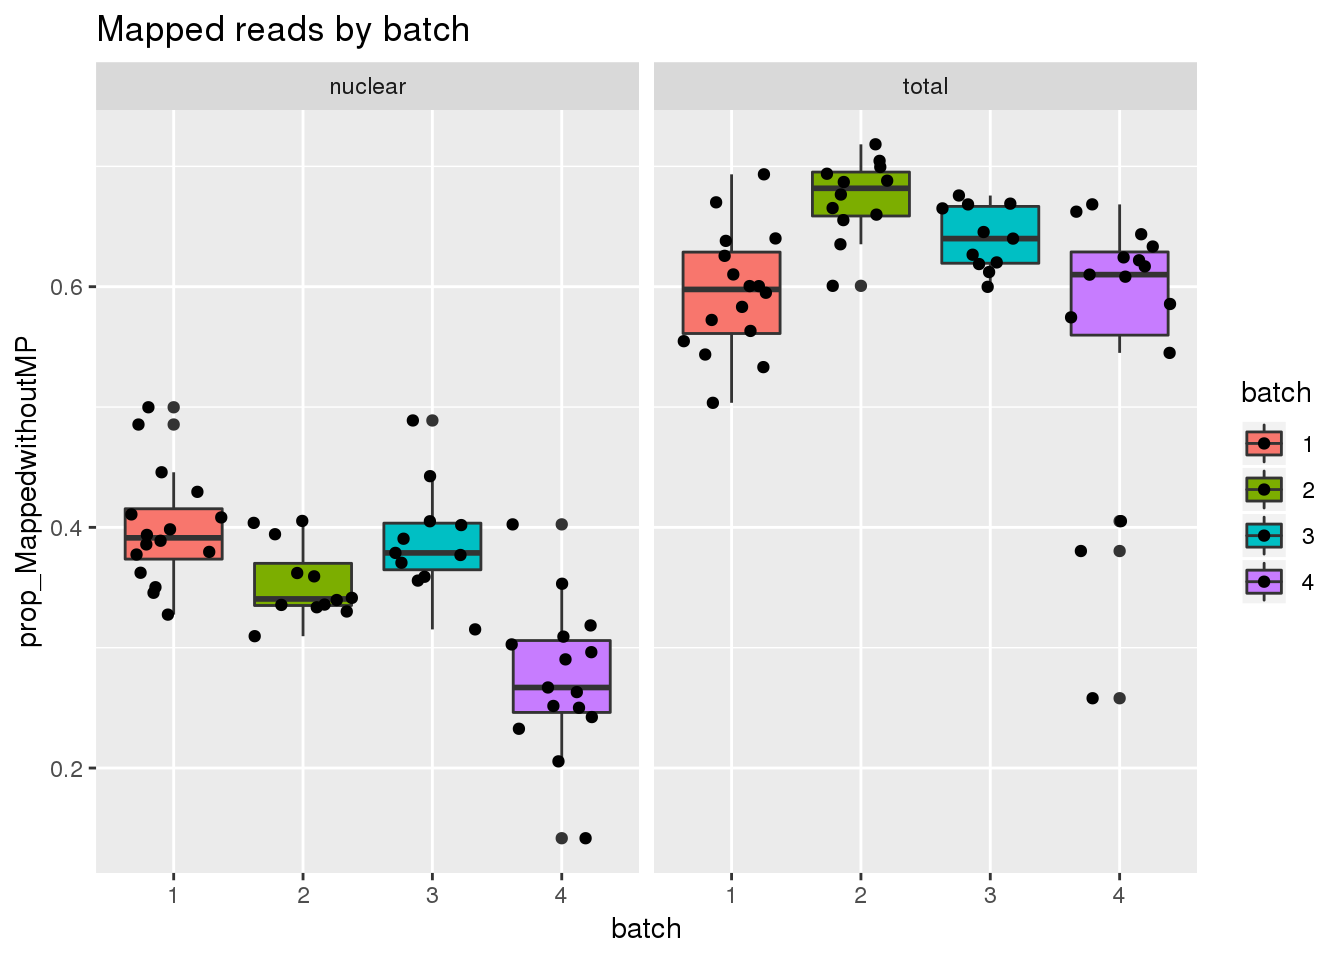
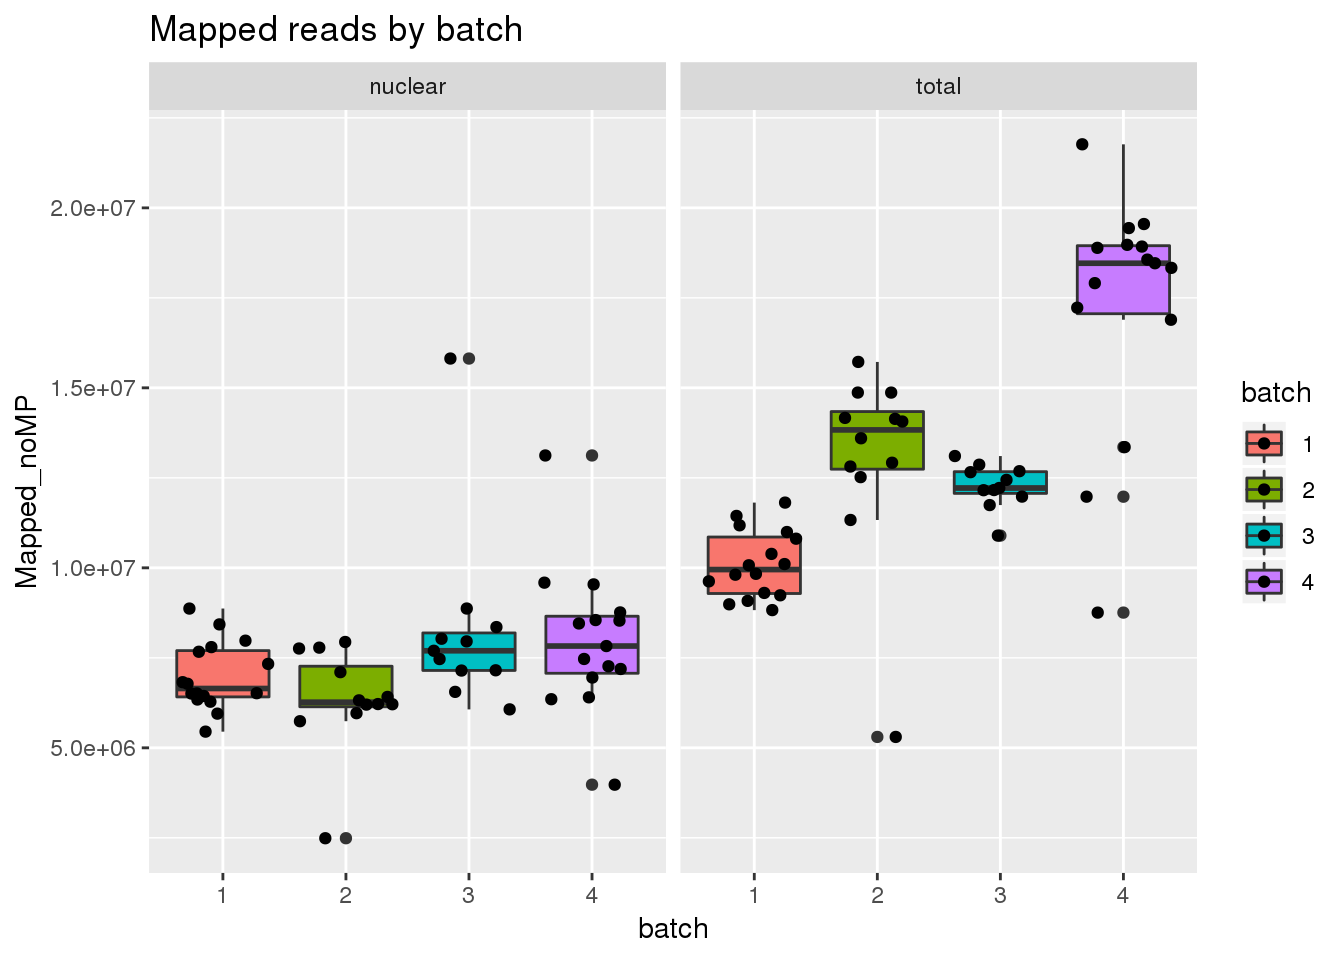
Build site.

diff --git a/docs/seqmetadatanalysis.html b/docs/seqmetadatanalysis.html
@@ -325,7 +325,7 @@ div.section {
 
 <p>
 <button type="button" class="btn btn-default btn-workflowr btn-workflowr-report" data-toggle="collapse" data-target="#workflowr-report">
-<span class="glyphicon glyphicon-list" aria-hidden="true"></span> workflowr <span class="glyphicon glyphicon-ok text-success" aria-hidden="true"></span>
+<span class="glyphicon glyphicon-list" aria-hidden="true"></span> workflowr <span class="glyphicon glyphicon-exclamation-sign text-danger" aria-hidden="true"></span>
 </button>
 </p>
 <div id="workflowr-report" class="collapse">
@@ -334,7 +334,7 @@ div.section {
 <a data-toggle="tab" href="#summary">Summary</a>
 </li>
 <li>
-<a data-toggle="tab" href="#checks"> Checks <span class="glyphicon glyphicon-ok text-success" aria-hidden="true"></span> </a>
+<a data-toggle="tab" href="#checks"> Checks <span class="glyphicon glyphicon-exclamation-sign text-danger" aria-hidden="true"></span> </a>
 </li>
 <li>
 <a data-toggle="tab" href="#versions">Past versions</a>
@@ -346,7 +346,7 @@ div.section {
 <strong>Last updated:</strong> 2019-04-25
 </p>
 <p>
-<strong>Checks:</strong> <span class="glyphicon glyphicon-ok text-success" aria-hidden="true"></span> 6 <span class="glyphicon glyphicon-exclamation-sign text-danger" aria-hidden="true"></span> 0
+<strong>Checks:</strong> <span class="glyphicon glyphicon-ok text-success" aria-hidden="true"></span> 5 <span class="glyphicon glyphicon-exclamation-sign text-danger" aria-hidden="true"></span> 1
 </p>
 <p>
 <strong>Knit directory:</strong> <code>apaQTL/analysis/</code> <span class="glyphicon glyphicon-question-sign" aria-hidden="true" title="This is the local directory in which the code in this file was executed."> </span>
@@ -362,12 +362,12 @@ This reproducible <a href="http://rmarkdown.rstudio.com">R Markdown</a> analysis
 <div class="panel panel-default">
 <div class="panel-heading">
 <p class="panel-title">
-<a data-toggle="collapse" data-parent="#workflowr-checks" href="#strongRMarkdownfilestronguptodate"> <span class="glyphicon glyphicon-ok text-success" aria-hidden="true"></span> <strong>R Markdown file:</strong> up-to-date </a>
+<a data-toggle="collapse" data-parent="#workflowr-checks" href="#strongRMarkdownfilestronguncommittedchanges"> <span class="glyphicon glyphicon-exclamation-sign text-danger" aria-hidden="true"></span> <strong>R Markdown file:</strong> uncommitted changes </a>
 </p>
 </div>
-<div id="strongRMarkdownfilestronguptodate" class="panel-collapse collapse">
+<div id="strongRMarkdownfilestronguncommittedchanges" class="panel-collapse collapse">
 <div class="panel-body">
-<p>Great! Since the R Markdown file has been committed to the Git repository, you know the exact version of the code that produced these results.</p>
+<p>The R Markdown file has unstaged changes. To know which version of the R Markdown file created these results, you’ll want to first commit it to the Git repo. If you’re still working on the analysis, you can ignore this warning. When you’re finished, you can run <code>wflow_publish</code> to commit the R Markdown file and build the HTML.</p>
 </div>
 </div>
 </div>
@@ -422,10 +422,10 @@ This reproducible <a href="http://rmarkdown.rstudio.com">R Markdown</a> analysis
 <div class="panel panel-default">
 <div class="panel-heading">
 <p class="panel-title">
-<a data-toggle="collapse" data-parent="#workflowr-checks" href="#strongRepositoryversionstrongahrefhttpsgithubcombrimittlemanapaQTLtree48b2ec1beba36ac1bfceb53a897d7f0a2ba7c16etargetblank48b2ec1a"> <span class="glyphicon glyphicon-ok text-success" aria-hidden="true"></span> <strong>Repository version:</strong> <a href="https://github.com/brimittleman/apaQTL/tree/48b2ec1beba36ac1bfceb53a897d7f0a2ba7c16e" target="_blank">48b2ec1</a> </a>
+<a data-toggle="collapse" data-parent="#workflowr-checks" href="#strongRepositoryversionstrongahrefhttpsgithubcombrimittlemanapaQTLtree0f7ad7235fde6290f1cf0bb7e950127408fa60cetargetblank0f7ad72a"> <span class="glyphicon glyphicon-ok text-success" aria-hidden="true"></span> <strong>Repository version:</strong> <a href="https://github.com/brimittleman/apaQTL/tree/0f7ad7235fde6290f1cf0bb7e950127408fa60ce" target="_blank">0f7ad72</a> </a>
 </p>
 </div>
[2 lines of base64/hex data omitted]
 <div class="panel-body">
 <p>
 Great! You are using Git for version control. Tracking code development and connecting the code version to the results is critical for reproducibility. The version displayed above was the version of the Git repository at the time these results were generated. <br><br> Note that you need to be careful to ensure that all relevant files for the analysis have been committed to Git prior to generating the results (you can use <code>wflow_publish</code> or <code>wflow_git_commit</code>). workflowr only checks the R Markdown file, but you know if there are other scripts or data files that it depends on. Below is the status of the Git repository when the results were generated:
@@ -550,6 +550,7 @@ Untracked files:
 Unstaged changes:
     Modified:   analysis/PASusageQC.Rmd
     Modified:   analysis/corrbetweenind.Rmd
+    Modified:   analysis/seqmetadatanalysis.Rmd
     Modified:   analysis/signalsiteanalysis.Rmd
     Deleted:    code/Upstream10Bases_general.py
     Modified:   code/bed2saf.py
@@ -592,6 +593,23 @@ Message
 </tr>
 </thead>
 <tbody>
+<tr>
+<td>
+html
+</td>
+<td>
+<a href="https://rawcdn.githack.com/brimittleman/apaQTL/0f7ad7235fde6290f1cf0bb7e950127408fa60ce/docs/seqmetadatanalysis.html" target="_blank">0f7ad72</a>
+</td>
+<td>
+brimittleman
+</td>
+<td>
+2019-04-25
+</td>
+<td>
+Build site.
+</td>
+</tr>
 <tr>
 <td>
 Rmd
@@ -709,7 +727,7 @@ brimittleman
 </div>
 <div id="mapped-reads" class="section level2">
 <h2>Mapped reads</h2>
-<pre class="r"><code>ggplot(metadata, aes(x=batch, group=batch, y=prop_MappedwithoutMP, fill=batch)) + geom_boxplot() + geom_jitter() + facet_grid(~fraction) + labs(title=&quot;Mapped reads by batch&quot;)</code></pre>
+<pre class="r"><code>ggplot(metadata, aes(x=batch, group=batch, y=Mapped_noMP, fill=batch)) + geom_boxplot() + geom_jitter() + facet_grid(~fraction) + labs(title=&quot;Mapped reads by batch&quot;)</code></pre>
 <p><img src="figure/seqmetadatanalysis.Rmd/unnamed-chunk-4-1.png" width="672" style="display: block; margin: auto;" /></p>
 <p>
 <button type="button" class="btn btn-default btn-xs btn-workflowr btn-workflowr-fig" data-toggle="collapse" data-target="#fig-unnamed-chunk-4-1">
@@ -837,6 +855,43 @@ brimittleman
 <h2>before mp</h2>
 <pre class="r"><code>ggplot(metadata, aes(x=batch, group=batch, y=mapped, fill=batch)) + geom_boxplot() + geom_jitter() + facet_grid(~fraction) + labs(title=&quot;Mapped reads before MP filter by batch&quot;)</code></pre>
 <p><img src="figure/seqmetadatanalysis.Rmd/unnamed-chunk-7-1.png" width="672" style="display: block; margin: auto;" /></p>
+<p>
+<button type="button" class="btn btn-default btn-xs btn-workflowr btn-workflowr-fig" data-toggle="collapse" data-target="#fig-unnamed-chunk-7-1">
+Past versions of unnamed-chunk-7-1.png
+</button>
+</p>
+<div id="fig-unnamed-chunk-7-1" class="collapse">
+<div class="table-responsive">
+<table class="table table-condensed table-hover">
+<thead>
+<tr>
+<th>
+Version
+</th>
+<th>
+Author
+</th>
+<th>
+Date
+</th>
+</tr>
+</thead>
+<tbody>
+<tr>
+<td>
+<a href="https://github.com/brimittleman/apaQTL/blob/0f7ad7235fde6290f1cf0bb7e950127408fa60ce/docs/figure/seqmetadatanalysis.Rmd/unnamed-chunk-7-1.png" target="_blank">0f7ad72</a>
+</td>
+<td>
+brimittleman
+</td>
+<td>
+2019-04-25
+</td>
+</tr>
+</tbody>
+</table>
+</div>
+</div>
 <br>
 <p>
 <button type="button" class="btn btn-default btn-workflowr btn-workflowr-sessioninfo" data-toggle="collapse" data-target="#workflowr-sessioninfo" style="display: block;">
